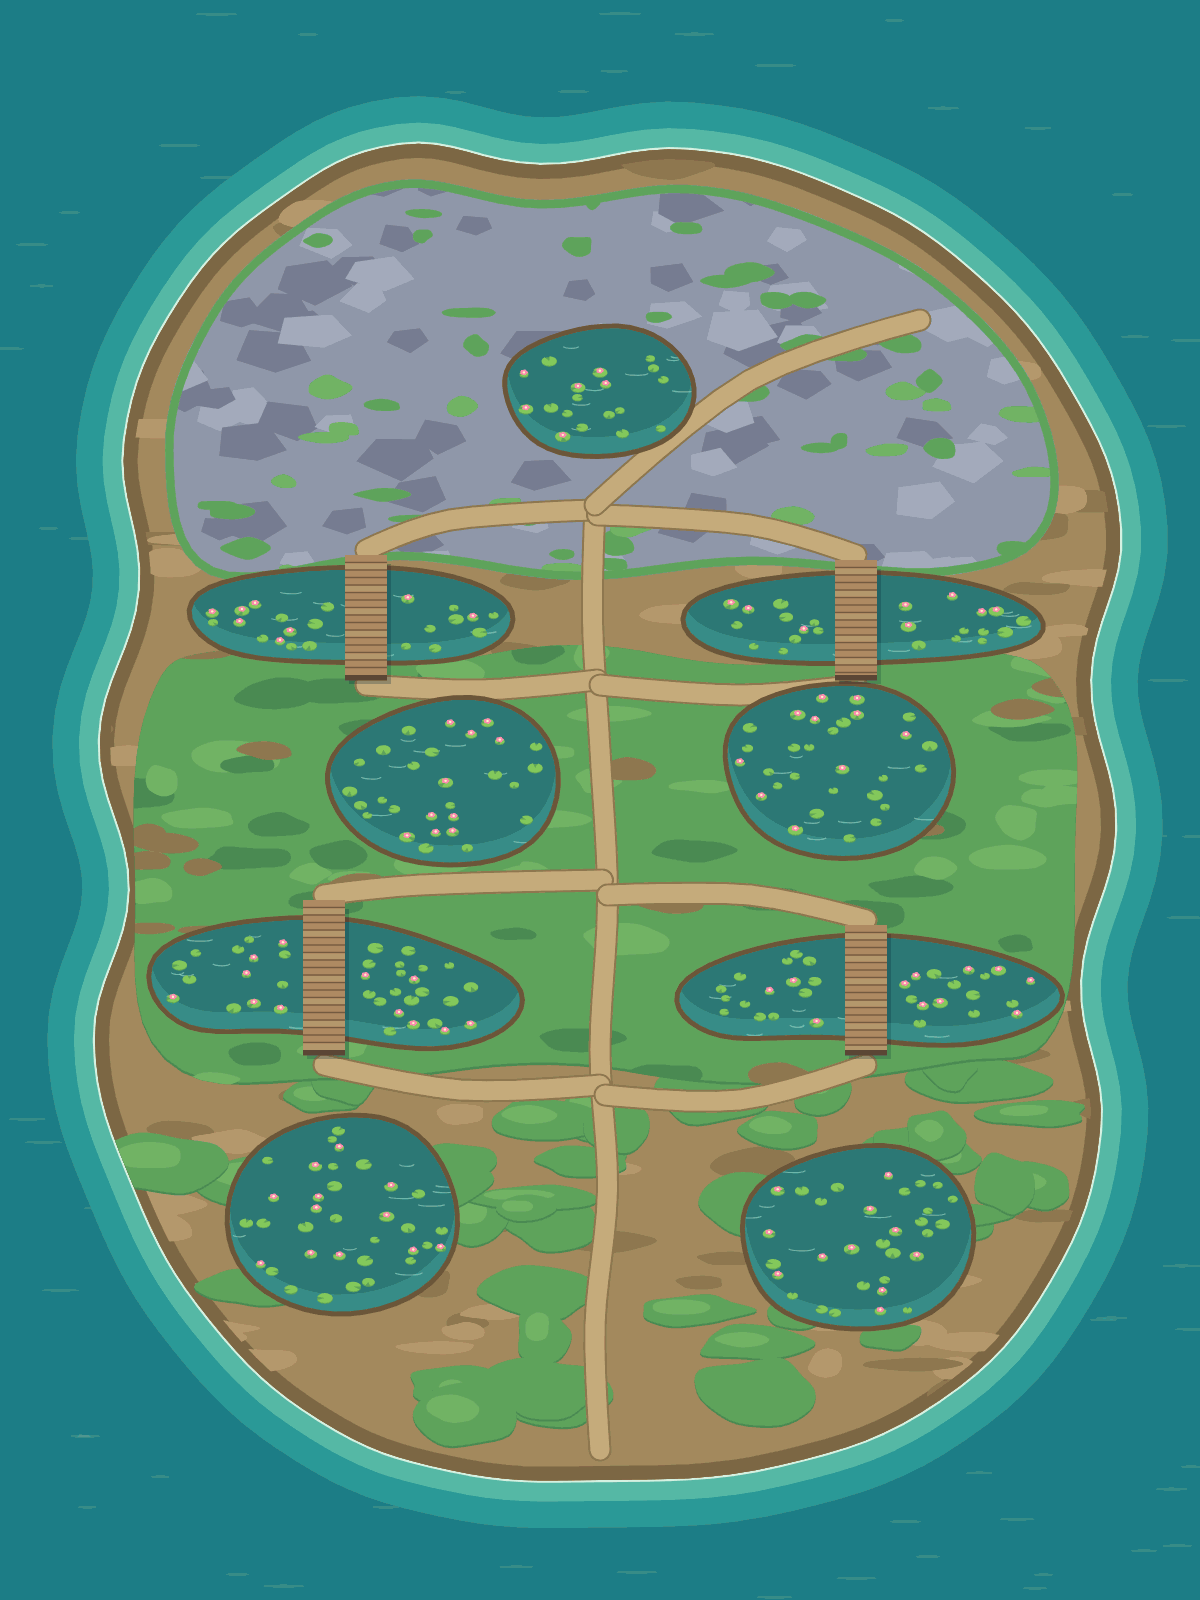
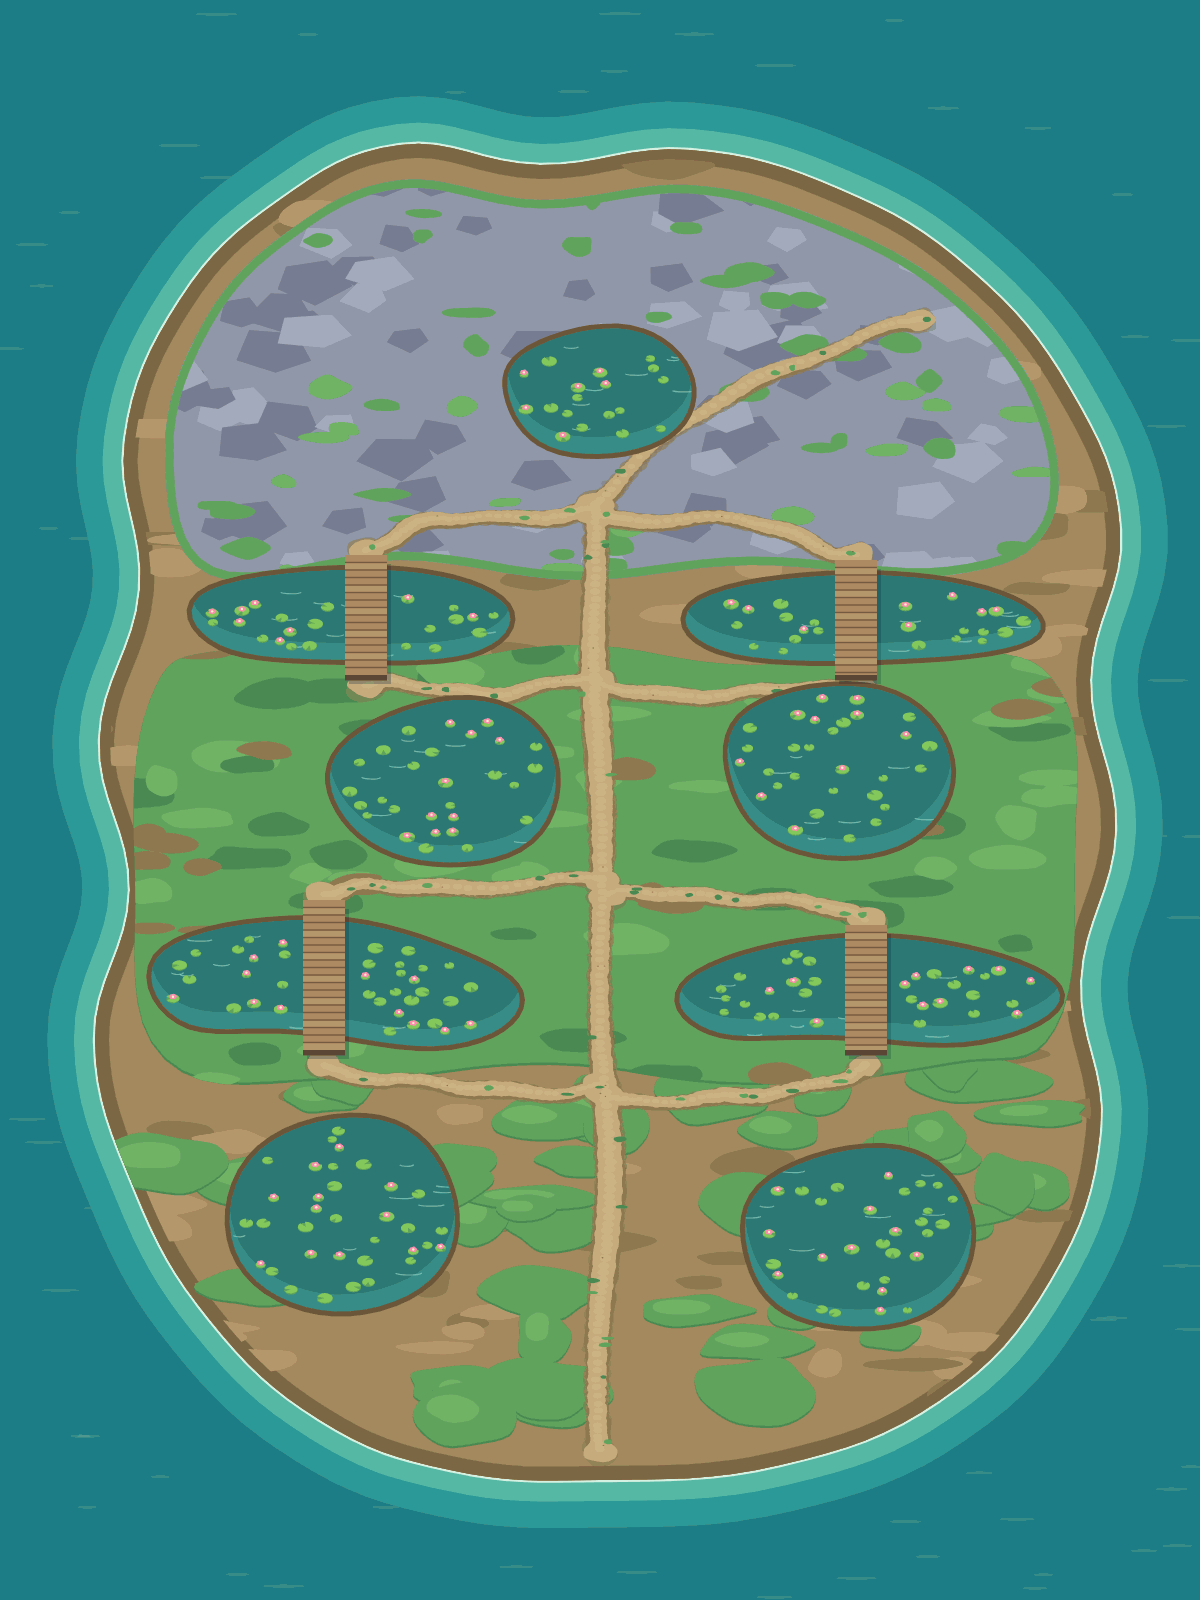
The swamp's ways are trodden earth, not drawn roads
Robin, 2026-11-20, in Leonard, AD's chat: "Looks good except the roads.
They clip over each other and doesnt look natural. I think you can get a
lot of inapiration from my survival game project".

Leonard, AD repainted Mire Cay's ground (studio commit 9ebb54f): the ways
are close dabs of bare earth with a ragged rim and a worn patch where
they meet, painted together, so none lies on another. Copied whole; only
ground.png and the look pictures changed, the layout is the same.

Seen in the pane at a crossing on Mire Cay.

diff --git a/Game Developer/client/public/art/mire-cay/NOTES.md b/Game Developer/client/public/art/mire-cay/NOTES.md
@@ -19,6 +19,14 @@ each a colour the ground is not.
 boat or a hut, yours), and it is the safe part, as the town is". So the second drop has the camp: the trader's boat
 drawn up on the bank under a patched red awning (the `stall`), the trader beside it, a reed hut on stilts, a fire.
 
+**The third drop, 2026-11-20: the ways.** Robin, in my chat, of the swamp: "Looks good except the roads. They clip over
+each other and doesnt look natural. I think you can get a lot of inapiration from my survival game project". The ways
+were drawn as roads, each with a dark line round it, so one lay on the next where they met. Now they are trodden
+earth, as the Survival game's village ways are: dabs of bare ground that wander a little, wider on the main way,
+paler down the middle, a ragged rim with no line, moss creeping in, and a worn patch where ways meet. All of them are
+laid together, so none lies on another. **Only `ground.png` changed** (and the look pictures); `paths` in
+`place.json` is the same list, and the ways still run through its points.
+
 ## The numbers
 
 | File | What | Size | Decoded | On disk |
@@ -55,7 +63,7 @@ Copy the folder. It is Crab Cay's form (`out\crab-cay\NOTES.md`), with **one new
 
 ## Open
 
-- **The look is not judged.** Robin said "A swamp maybe"; the three screens went to him on 2026-11-20.
+- **The look:** Robin, 2026-11-20: "Looks good except the roads." The roads are redone (above) and shown to him again.
 - **A landmark.** The old stones want broken pillars and one great thing (I would make a mossy stone toad). Not made.
 - The camp has one person. More of them, and a second hut, when tasks come here.
 - The stall, the hut and the fire take the round shadow; the fire does not flicker.
